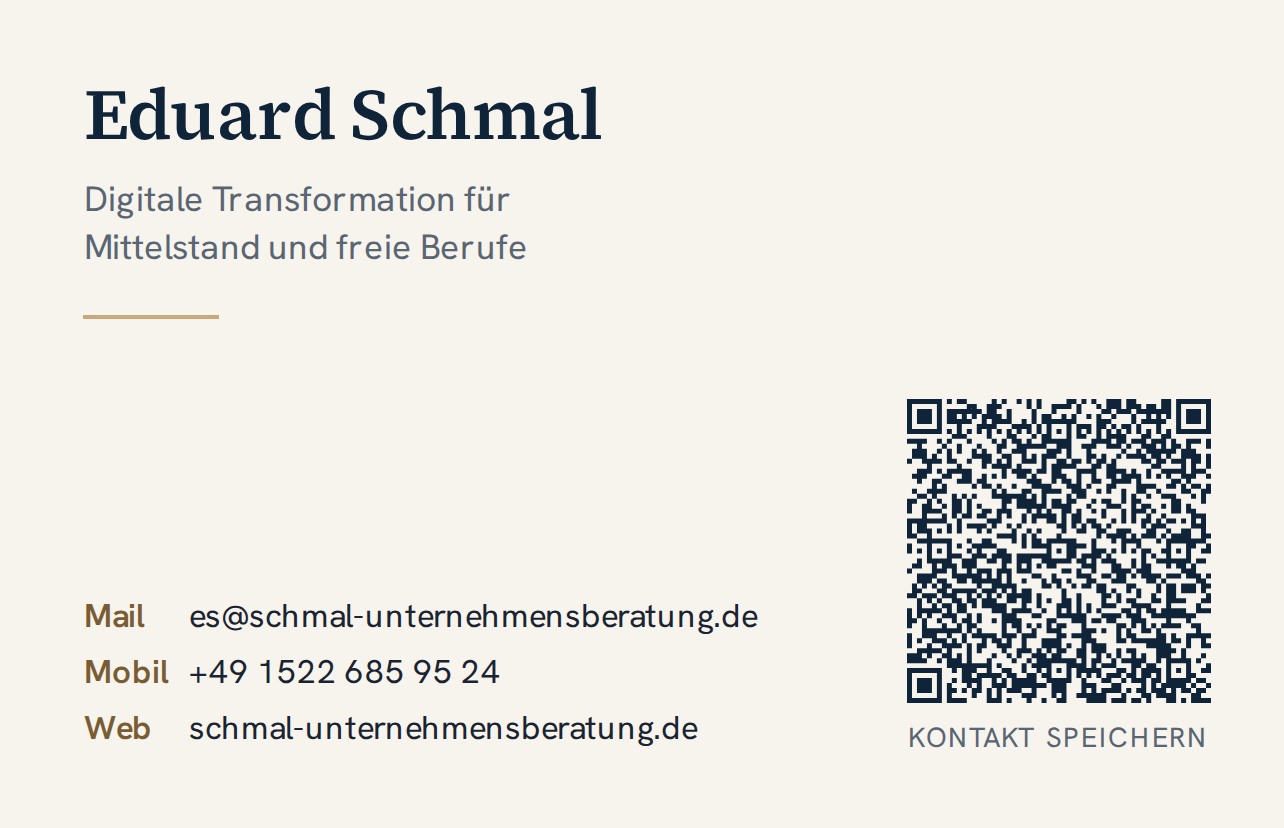
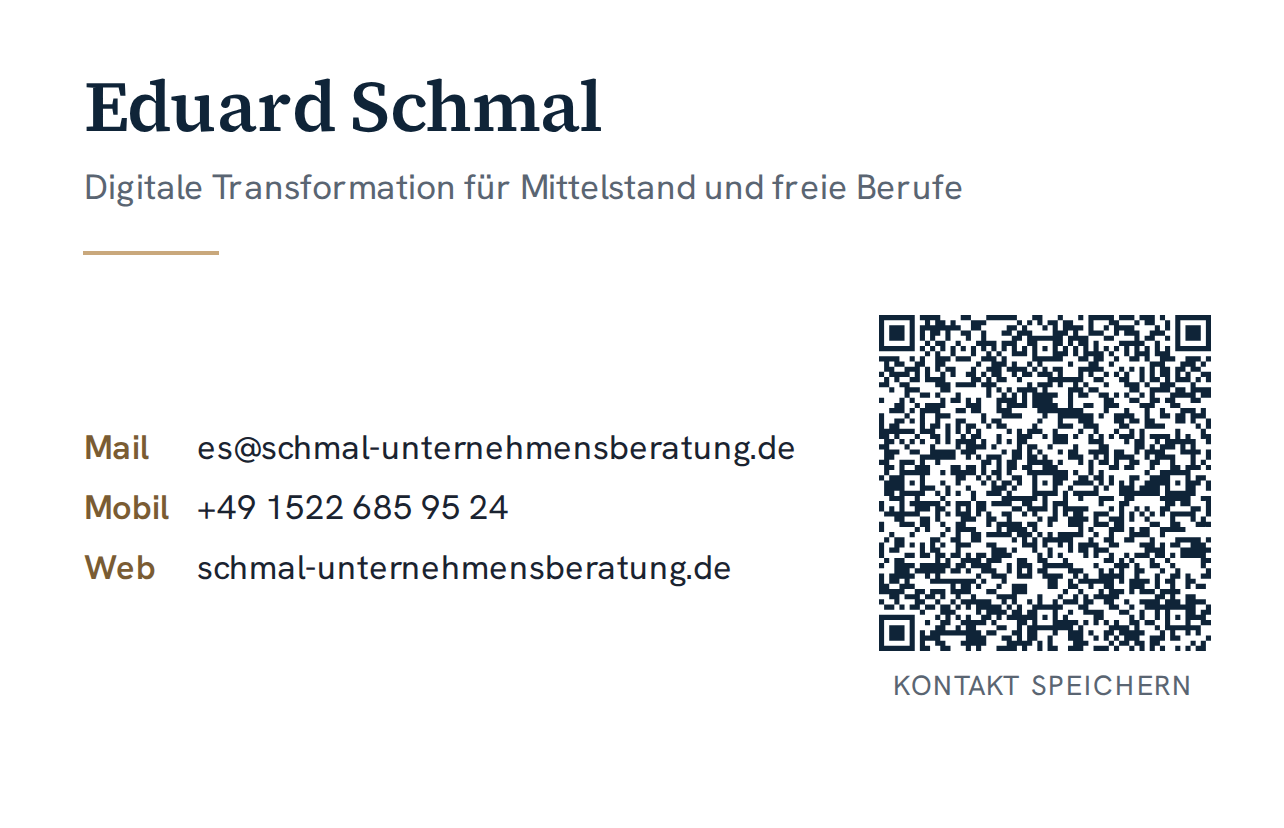
Business card front: white background, slogan on one line, contact block centred, LinkedIn labelled in vCard
Claude-Session: https://claude.ai/code/session_01M3qpGC9EzAFjhf5TCvYX6d

diff --git a/visitenkarte/visitenkarte.html b/visitenkarte/visitenkarte.html
@@ -16,16 +16,16 @@
   /* Inhaltsbereich = Endformat minus 4 mm Sicherheitsabstand, plus 3 mm Beschnitt */
   .inhalt { position: absolute; left: 10mm; right: 10mm; top: 9mm; bottom: 9mm; }
 
-  .vorne { background: var(--ivory); color: var(--ink); font-family: 'Hanken Grotesk', Arial, sans-serif; }
-  .vorne .inhalt { display: flex; justify-content: space-between; align-items: stretch; gap: 4mm; left: 8.5mm; right: 8mm; top: 8mm; bottom: 8mm; }
-  .text { display: flex; flex-direction: column; justify-content: space-between; min-width: 0; }
+  .vorne { background: #ffffff; color: var(--ink); font-family: 'Hanken Grotesk', Arial, sans-serif; }
+  .vorne .inhalt { display: grid; grid-template-rows: auto 1fr; left: 8.5mm; right: 8mm; top: 7.5mm; bottom: 7.5mm; }
   .name { font-family: 'Source Serif 4', Georgia, serif; font-weight: 600; font-size: 13.5pt; line-height: 1.1; color: var(--navy); letter-spacing: -0.01em; }
-  .slogan { margin-top: 1.6mm; font-size: 6.6pt; line-height: 1.35; color: var(--stone); }
-  .linie { width: 9mm; height: 0.4mm; background: var(--gold); margin: 2.6mm 0 0; }
-  .kontakt { font-size: 6.2pt; line-height: 1.65; white-space: nowrap; color: var(--ink); font-variant-numeric: lining-nums; }
-  .kontakt span { display: inline-block; width: 7mm; color: var(--gold-deep); font-weight: 600; }
-  .qr { display: flex; flex-direction: column; align-items: center; justify-content: flex-end; gap: 1.2mm; flex: none; }
-  .qr img { width: 20mm; height: 20mm; display: block; }
+  .slogan { margin-top: 1.4mm; font-size: 6.6pt; line-height: 1.3; color: var(--stone); white-space: nowrap; }
+  .linie { width: 9mm; height: 0.4mm; background: var(--gold); margin-top: 2.4mm; }
+  .unten { display: flex; justify-content: space-between; align-items: center; gap: 4mm; min-height: 0; }
+  .kontakt { font-size: 6.4pt; line-height: 1.75; white-space: nowrap; color: var(--ink); font-variant-numeric: lining-nums; }
+  .kontakt span { display: inline-block; width: 7.5mm; color: var(--gold-deep); font-weight: 600; }
+  .qr { display: flex; flex-direction: column; align-items: center; gap: 1.2mm; flex: none; }
+  .qr img { width: 22mm; height: 22mm; display: block; }
   .qr p { font-size: 5.2pt; letter-spacing: 0.06em; text-transform: uppercase; color: var(--stone); }
 
   .hinten { background: var(--navy); display: grid; place-items: center; }
@@ -35,21 +35,21 @@
 <body>
   <section class="seite vorne">
     <div class="inhalt">
-      <div class="text">
-        <div>
-          <p class="name">Eduard Schmal</p>
-          <p class="slogan">Digitale Transformation für<br />Mittelstand und freie Berufe</p>
-          <div class="linie"></div>
-        </div>
+      <div>
+        <p class="name">Eduard Schmal</p>
+        <p class="slogan">Digitale Transformation für Mittelstand und freie Berufe</p>
+        <div class="linie"></div>
+      </div>
+      <div class="unten">
         <p class="kontakt">
           <span>Mail</span>es@schmal-unternehmensberatung.de<br />
           <span>Mobil</span>+49 1522 685 95 24<br />
           <span>Web</span>schmal-unternehmensberatung.de
         </p>
-      </div>
-      <div class="qr">
-        <img src="qr-vcard.svg" alt="QR-Code: Kontakt speichern" />
-        <p>Kontakt speichern</p>
+        <div class="qr">
+          <img src="qr-vcard.svg" alt="QR-Code: Kontakt speichern" />
+          <p>Kontakt speichern</p>
+        </div>
       </div>
     </div>
   </section>
